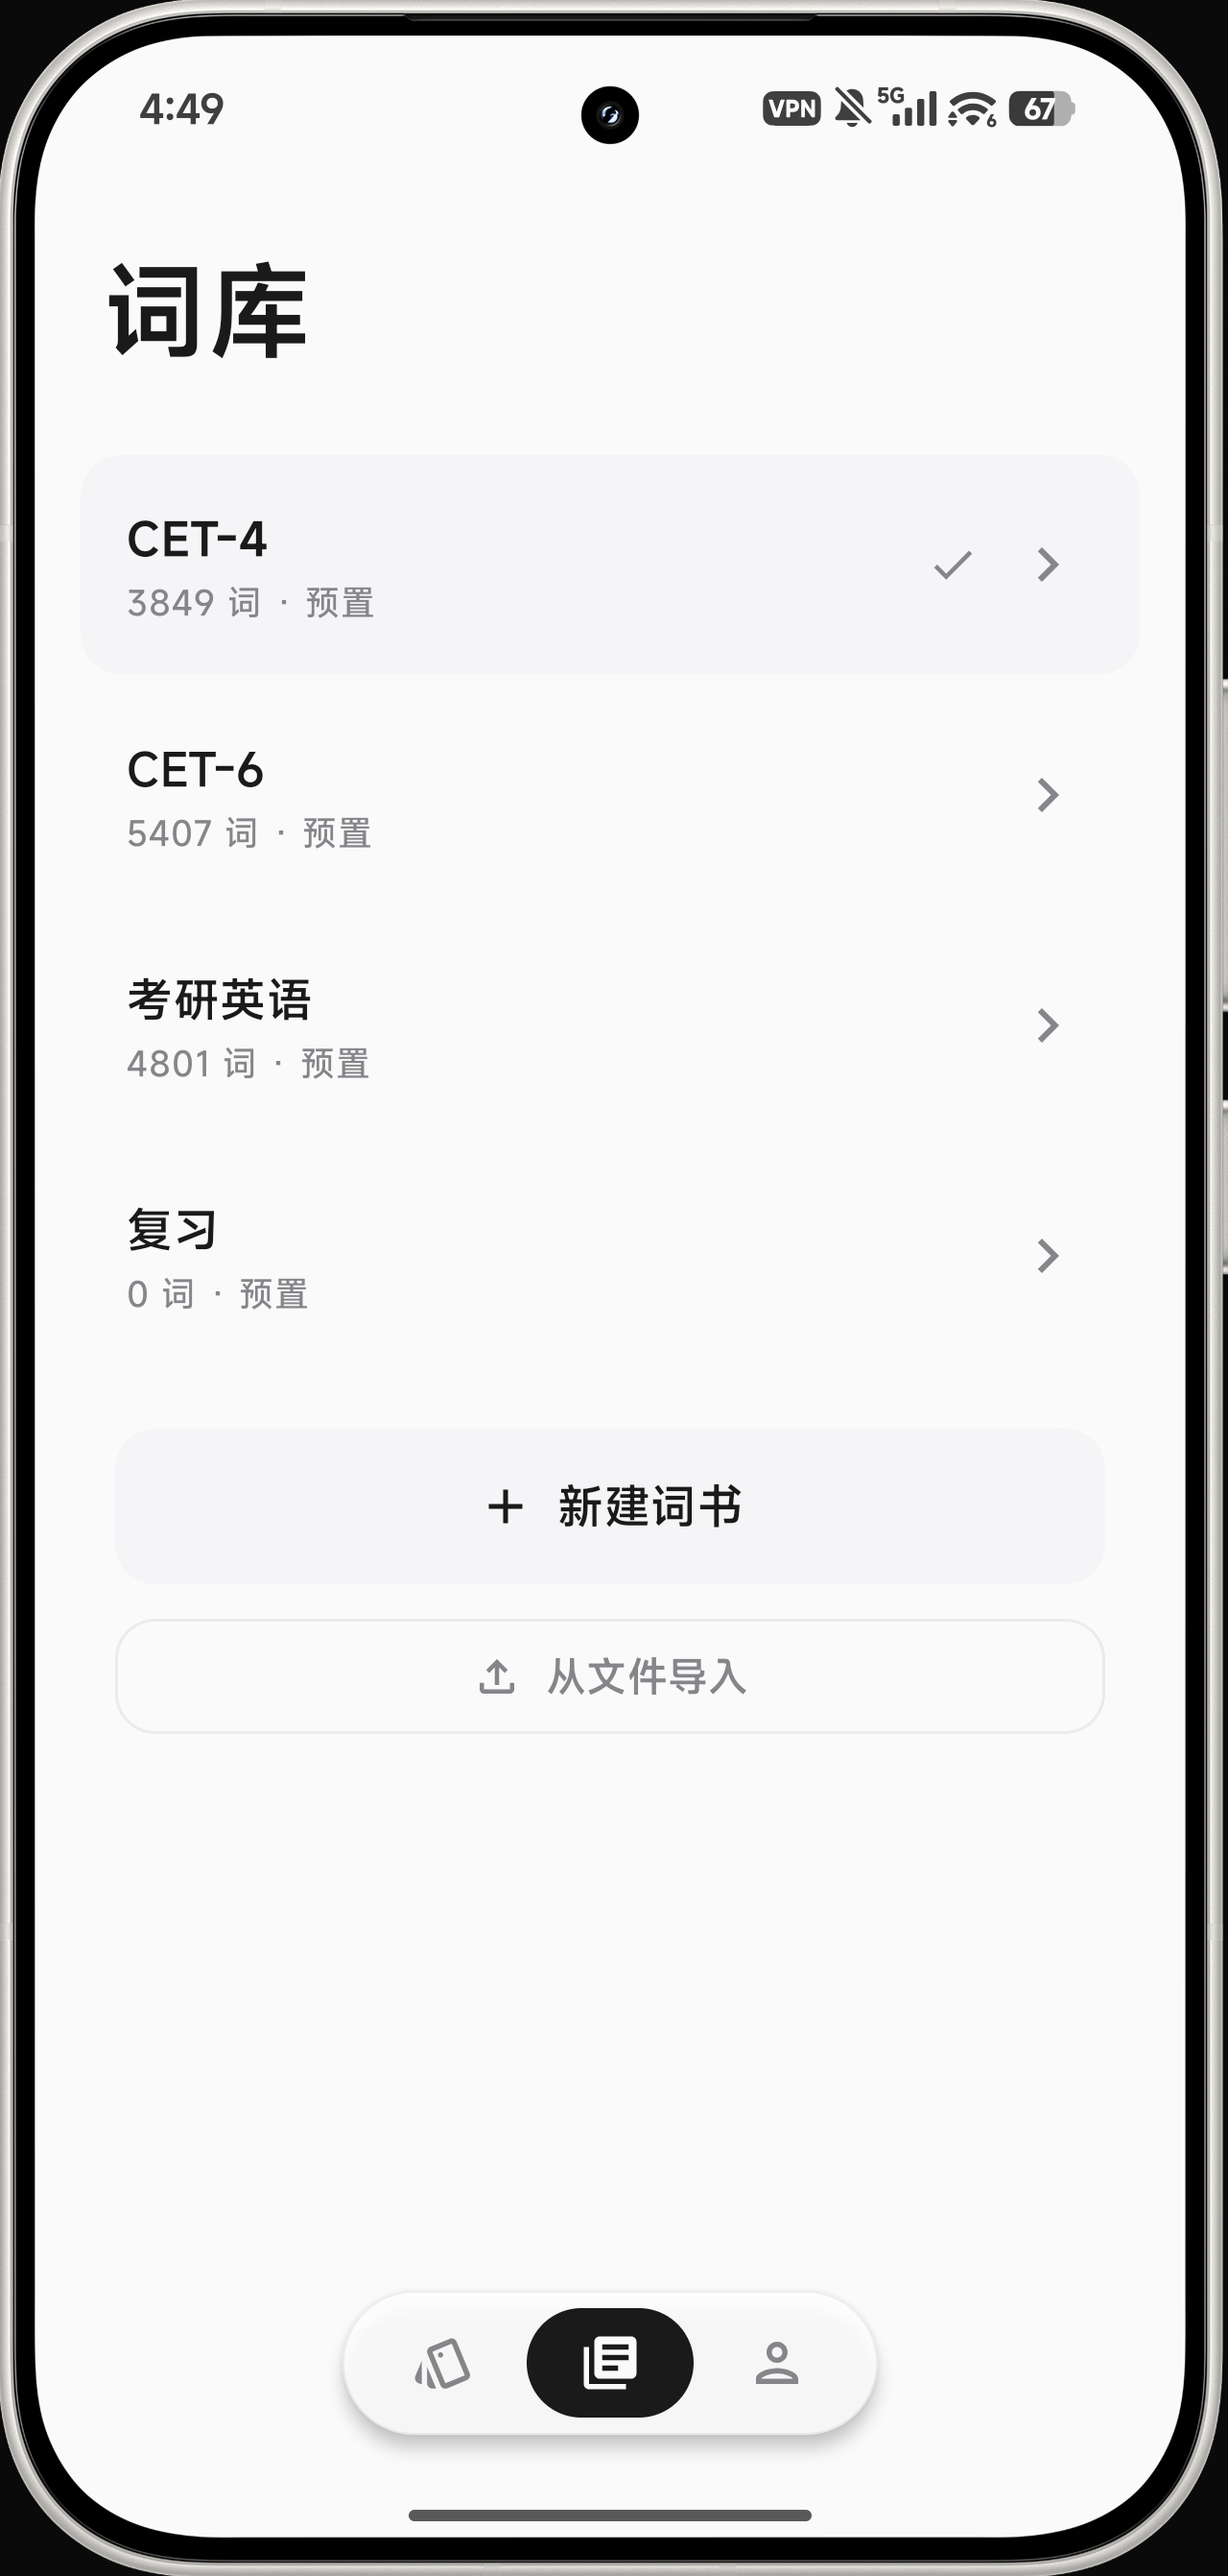
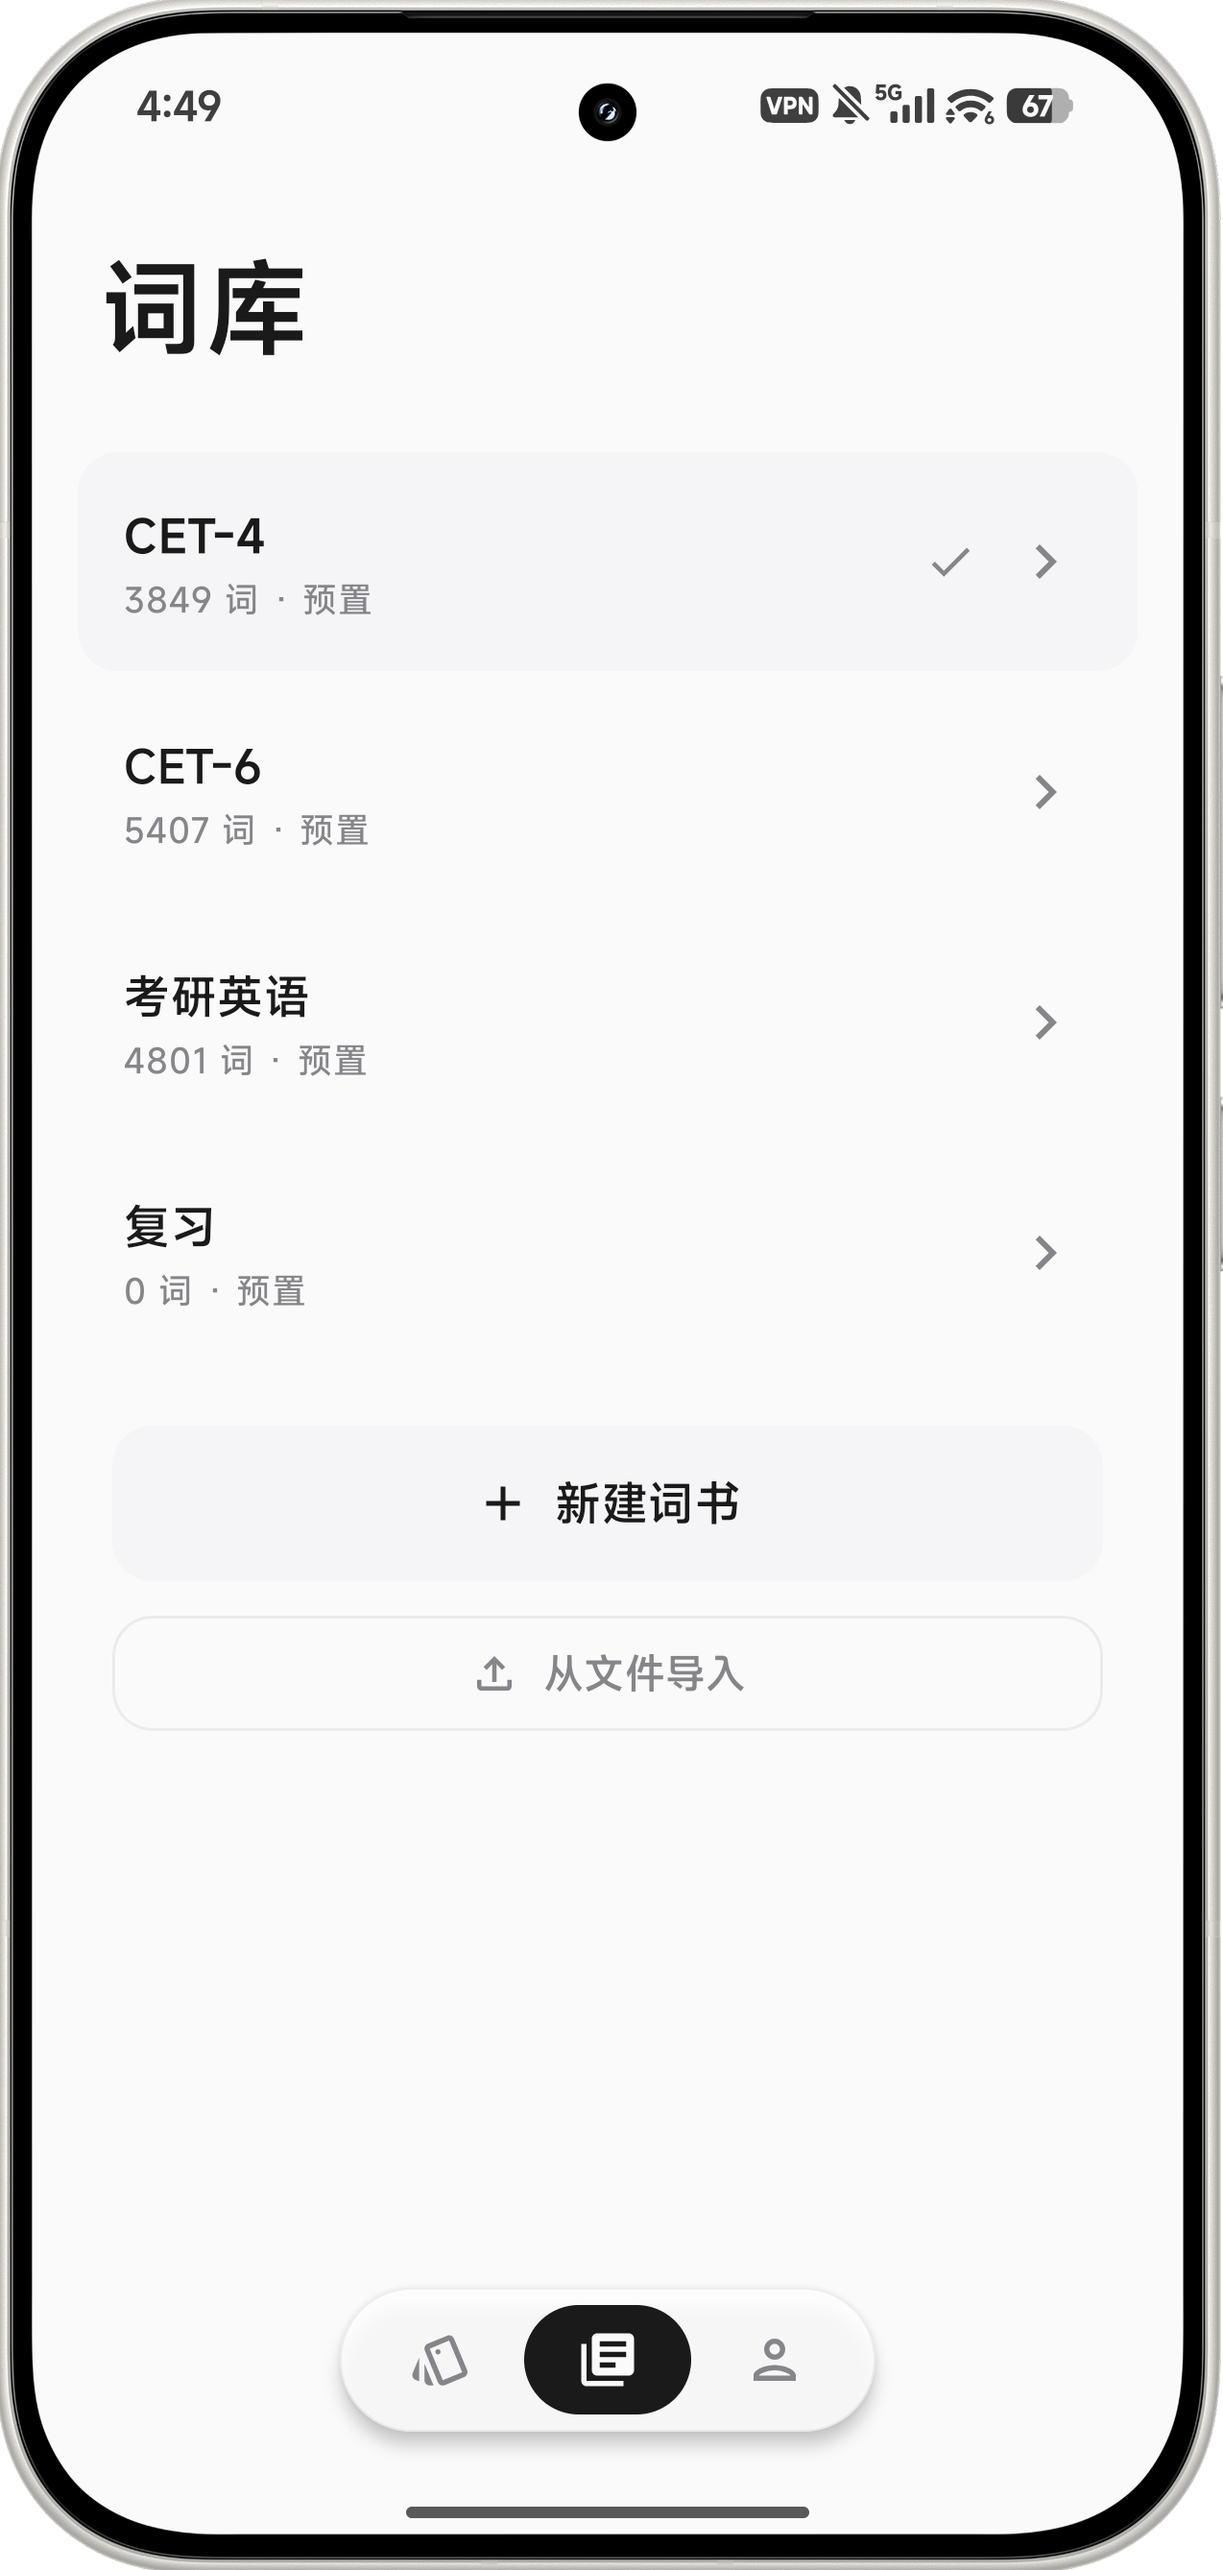
feat: 官网 V1 定稿 — 透明截图 + drop-shadow + 主题规范
- 截图改为透明背景（圆角手机轮廓，drop-shadow 跟随实际形状）
- 单套截图，深浅主题共用
- logo 随主题切换（JS 控制，不用 picture 标签）
- color-scheme meta + 属性（Dark Reader 兼容）
- 分段胶囊主题选择器（auto/light/dark）
- 默认 auto theme
- 动态版本号 + 下载链接（GitHub API）
- 清理 v1/v2/v3 变体文件

diff --git a/docs/index.html b/docs/index.html
@@ -1,8 +1,9 @@
 <!DOCTYPE html>
-<html lang="zh-CN">
+<html lang="zh-CN" style="color-scheme: light dark">
 <head>
 <meta charset="UTF-8">
 <meta name="viewport" content="width=device-width, initial-scale=1">
+<meta name="color-scheme" content="light dark">
 <title>WordDrill — 极简英语学习闪卡</title>
 <meta name="description" content="靠不断滑动浏览做被动重复记忆的闪卡 App。纯离线、无账号、无后端。预置 CET-4/CET-6/考研英语，内置 10 万词词典。">
 <style>
@@ -37,32 +38,35 @@ html[data-theme="dark"] {
 body {
   font-family: -apple-system, "SF Pro Text", "Noto Sans SC", "PingFang SC", system-ui, sans-serif;
   background: var(--bg); color: var(--text-primary);
-  -webkit-font-smoothing: antialiased;
-  line-height: 1.6;
+  -webkit-font-smoothing: antialiased; line-height: 1.6;
   transition: background 0.3s var(--spring), color 0.3s var(--spring);
   overflow-x: hidden;
 }
 
-/* ═══ Theme toggle ═══ */
+/* ═══ Segmented theme toggle ═══ */
 .theme-toggle {
   position: fixed; top: 20px; right: 20px; z-index: 100;
-  width: 40px; height: 40px; border-radius: 50%;
-  background: var(--surface); border: 0.5px solid var(--separator);
-  display: flex; align-items: center; justify-content: center;
-  cursor: pointer; transition: all 0.2s var(--spring);
-  box-shadow: 0 2px 12px rgba(0,0,0,0.08);
-  color: var(--text-primary);
+  display: flex; gap: 0;
+  background: rgba(118,118,128,0.12);
+  border-radius: 8px; padding: 2px;
+  transition: background 0.3s var(--spring);
 }
-.theme-toggle:active { transform: scale(0.9); }
-.theme-toggle svg { width: 18px; height: 18px; }
-.theme-toggle .icon-auto, .theme-toggle .icon-light, .theme-toggle .icon-dark { display: none; }
-html[data-theme="auto"] .theme-toggle .icon-auto,
-html[data-theme="light"] .theme-toggle .icon-light,
-html[data-theme="dark"] .theme-toggle .icon-dark { display: block; }
+.tt-item {
+  width: 28px; height: 24px;
+  display: flex; align-items: center; justify-content: center;
+  border-radius: 6px; cursor: pointer;
+  color: var(--text-secondary);
+  transition: all 0.2s var(--spring);
+}
+.tt-item.active {
+  background: var(--surface); color: var(--text-primary);
+  box-shadow: 0 1px 3px rgba(0,0,0,0.1);
+}
+.tt-item svg { width: 14px; height: 14px; }
 
 /* ═══ Hero ═══ */
 .hero { text-align: center; padding: 120px 24px 80px; }
-.hero-logo { width: 100px; height: 100px; margin-bottom: 28px; }
+.hero-logo { width: 100px; height: 100px; margin-bottom: 28px; transition: opacity 0.2s; }
 .hero h1 { font-size: clamp(40px, 7vw, 64px); font-weight: 700; letter-spacing: -1.5px; margin-bottom: 16px; }
 .hero .tagline { font-size: clamp(18px, 3vw, 24px); color: var(--text-secondary); margin-bottom: 8px; font-weight: 400; }
 .hero .tagline-en { font-size: 14px; color: var(--text-tertiary); margin-bottom: 40px; }
@@ -77,42 +81,27 @@ html[data-theme="dark"] .theme-toggle .icon-dark { display: block; }
 .download-btn:active { transform: scale(0.98); }
 .download-meta { font-size: 13px; color: var(--text-tertiary); margin-top: 14px; }
 
-/* ═══ Hero screenshots — three phones ═══ */
-.hero-phones {
-  display: flex; justify-content: center; gap: 12px;
-  padding: 60px 24px 40px;
-}
-.hero-phones img {
-  width: 200px; border-radius: 12px;
-  box-shadow: 0 8px 40px rgba(0,0,0,0.1);
-}
+/* ═══ Hero phones ═══ */
+.hero-phones { display: flex; justify-content: center; gap: 12px; padding: 60px 24px 40px; }
+.hero-phones img { width: 200px; filter: drop-shadow(0 8px 40px rgba(0,0,0,0.15)); transition: opacity 0.2s; }
 .hero-phones img:nth-child(2) { transform: translateY(-20px); }
 
-/* ═══ Feature sections — alternating ═══ */
-.feature {
-  display: flex; align-items: center; justify-content: center;
-  gap: 60px; padding: 100px 24px;
-  max-width: 1000px; margin: 0 auto;
-}
-.feature-text { flex: 1; max-width: 400px; }
-.feature-text h2 {
-  font-size: clamp(28px, 4vw, 40px); font-weight: 700;
-  letter-spacing: -0.8px; margin-bottom: 16px; line-height: 1.2;
-}
-.feature-text p { font-size: 18px; color: var(--text-secondary); line-height: 1.6; }
-.feature-visual { flex: 1; max-width: 300px; text-align: center; }
-.feature-visual img { width: 100%; max-width: 260px; border-radius: 12px; box-shadow: 0 12px 48px rgba(0,0,0,0.12); }
-
-/* Alternating layout */
-.feature.reverse { flex-direction: row-reverse; }
-
-/* Stats band */
-.stats {
-  display: flex; justify-content: center; gap: 60px;
-  padding: 80px 24px; text-align: center;
-}
+/* ═══ Stats ═══ */
+.stats { display: flex; justify-content: center; gap: 60px; padding: 80px 24px; text-align: center; }
 .stat-num { font-size: 48px; font-weight: 700; letter-spacing: -1px; }
 .stat-label { font-size: 14px; color: var(--text-secondary); margin-top: 4px; }
+
+/* ═══ Feature sections ═══ */
+.feature {
+  display: flex; align-items: center; justify-content: center;
+  gap: 60px; padding: 100px 24px; max-width: 1000px; margin: 0 auto;
+}
+.feature-text { flex: 1; max-width: 400px; }
+.feature-text h2 { font-size: clamp(28px, 4vw, 40px); font-weight: 700; letter-spacing: -0.8px; margin-bottom: 16px; line-height: 1.2; }
+.feature-text p { font-size: 18px; color: var(--text-secondary); line-height: 1.6; }
+.feature-visual { flex: 1; max-width: 300px; text-align: center; }
+.feature-visual img { width: 100%; max-width: 260px; filter: drop-shadow(0 12px 48px rgba(0,0,0,0.15)); transition: opacity 0.2s; }
+.feature.reverse { flex-direction: row-reverse; }
 
 @media (max-width: 700px) {
   .feature { flex-direction: column !important; gap: 32px; padding: 60px 24px; text-align: center; }
@@ -135,20 +124,14 @@ html[data-theme="dark"] .theme-toggle .icon-dark { display: block; }
 </head>
 <body>
 
-<!-- Theme toggle -->
-<div class="theme-toggle" onclick="cycleTheme()" title="切换主题">
-  <svg class="icon-auto" viewBox="0 0 24 24" fill="none" stroke="currentColor" stroke-width="2" stroke-linecap="round" stroke-linejoin="round"><circle cx="12" cy="12" r="4"/><path d="M12 2v2M12 20v2M4.93 4.93l1.41 1.41M17.66 17.66l1.41 1.41M2 12h2M20 12h2M6.34 17.66l-1.41 1.41M19.07 4.93l-1.41 1.41"/></svg>
-  <svg class="icon-light" viewBox="0 0 24 24" fill="none" stroke="currentColor" stroke-width="2" stroke-linecap="round" stroke-linejoin="round"><circle cx="12" cy="12" r="5"/><line x1="12" y1="1" x2="12" y2="3"/><line x1="12" y1="21" x2="12" y2="23"/><line x1="4.22" y1="4.22" x2="5.64" y2="5.64"/><line x1="18.36" y1="18.36" x2="19.78" y2="19.78"/><line x1="1" y1="12" x2="3" y2="12"/><line x1="21" y1="12" x2="23" y2="12"/><line x1="4.22" y1="19.78" x2="5.64" y2="18.36"/><line x1="18.36" y1="5.64" x2="19.78" y2="4.22"/></svg>
-  <svg class="icon-dark" viewBox="0 0 24 24" fill="none" stroke="currentColor" stroke-width="2" stroke-linecap="round" stroke-linejoin="round"><path d="M21 12.8A9 9 0 1 1 11.2 3a7 7 0 0 0 9.8 9.8z"/></svg>
+<div class="theme-toggle" id="themeToggle">
+  <div class="tt-item" data-theme-val="auto" title="跟随系统"><svg viewBox="0 0 24 24" fill="none" stroke="currentColor" stroke-width="2"><circle cx="12" cy="12" r="9"/><path d="M12 3a9 9 0 0 0 0 18a4.5 9 0 0 1 0-18" fill="currentColor" stroke="none"/></svg></div>
+  <div class="tt-item" data-theme-val="light" title="浅色"><svg viewBox="0 0 24 24" fill="none" stroke="currentColor" stroke-width="2"><circle cx="12" cy="12" r="5"/><line x1="12" y1="1" x2="12" y2="3"/><line x1="12" y1="21" x2="12" y2="23"/><line x1="4.22" y1="4.22" x2="5.64" y2="5.64"/><line x1="18.36" y1="18.36" x2="19.78" y2="19.78"/><line x1="1" y1="12" x2="3" y2="12"/><line x1="21" y1="12" x2="23" y2="12"/><line x1="4.22" y1="19.78" x2="5.64" y2="18.36"/><line x1="18.36" y1="5.64" x2="19.78" y2="4.22"/></svg></div>
+  <div class="tt-item" data-theme-val="dark" title="深色"><svg viewBox="0 0 24 24" fill="none" stroke="currentColor" stroke-width="2"><path d="M21 12.8A9 9 0 1 1 11.2 3a7 7 0 0 0 9.8 9.8z"/></svg></div>
 </div>
 
-<!-- ═══ Hero ═══ -->
 <div class="hero">
-  <picture>
-    <source media="(prefers-color-scheme: dark)" srcset="website/logo-dark.svg">
-    <source media="(prefers-color-scheme: light)" srcset="website/logo-light.svg">
-    <img class="hero-logo" src="website/logo-light.svg" alt="WordDrill">
-  </picture>
+  <img class="hero-logo" id="heroLogo" src="website/logo-light.svg" alt="WordDrill">
   <h1>WordDrill</h1>
   <div class="tagline">纯粹刷词，加深记忆</div>
   <div class="tagline-en">Swipe. Read. Remember. No exams, no scores, no algorithms.</div>
@@ -159,54 +142,42 @@ html[data-theme="dark"] .theme-toggle .icon-dark { display: block; }
   <div class="download-meta" id="download-meta">v0.2.0 · Android 8.0+ · ~34 MB</div>
 </div>
 
-<!-- ═══ Hero phones ═══ -->
 <div class="hero-phones reveal">
   <img src="website/screenshot-1.png" alt="刷卡页" />
   <img src="website/screenshot-2.png" alt="词库页" />
   <img src="website/screenshot-3.png" alt="我的页" />
 </div>
 
-<!-- ═══ Stats band ═══ -->
 <div class="stats reveal">
   <div><div class="stat-num">10万+</div><div class="stat-label">内置词典词条</div></div>
   <div><div class="stat-num">3</div><div class="stat-label">预置词书</div></div>
   <div><div class="stat-num">0</div><div class="stat-label">网络请求</div></div>
 </div>
 
-<!-- ═══ Feature 1: 全屏刷卡 ═══ -->
 <div class="feature reveal">
   <div class="feature-text">
     <h2>全屏刷卡<br/>纯粹阅读</h2>
     <p>单词、词性、音标、释义同屏展示。左右滑动切换，不考试不评分不判断对错。靠被动重复加深记忆，仅此而已。</p>
   </div>
-  <div class="feature-visual">
-    <img src="website/screenshot-1.png" alt="刷卡页" />
-  </div>
+  <div class="feature-visual"><img src="website/screenshot-1.png" alt="刷卡页" /></div>
 </div>
 
-<!-- ═══ Feature 2: 词典 + 导入 ═══ -->
 <div class="feature reverse reveal">
   <div class="feature-text">
     <h2>内置十万词典<br/>文件批量导入</h2>
     <p>ECDICT 英汉词典，添加词条自动查词性、释义、音标。支持 Excel、文本、PDF 批量导入词书，自动匹配词典数据。</p>
   </div>
-  <div class="feature-visual">
-    <img src="website/screenshot-2.png" alt="词库页" />
-  </div>
+  <div class="feature-visual"><img src="website/screenshot-2.png" alt="词库页" /></div>
 </div>
 
-<!-- ═══ Feature 3: 数据 + 隐私 ═══ -->
 <div class="feature reveal">
   <div class="feature-text">
     <h2>完全离线<br/>数据尽在掌握</h2>
     <p>所有数据本地存储，无后端无账号无网络请求。导出/导入 JSON 文件迁移数据，换机不丢进度。回收站防误删，跳过词自动收入复习词书。</p>
   </div>
-  <div class="feature-visual">
-    <img src="website/screenshot-3.png" alt="我的页" />
-  </div>
+  <div class="feature-visual"><img src="website/screenshot-3.png" alt="我的页" /></div>
 </div>
 
-<!-- ═══ Footer ═══ -->
 <div class="footer">
   <a href="https://github.com/ChHsiching/word-drill">GitHub</a> ·
   <a href="https://github.com/ChHsiching/word-drill/releases">Releases</a> ·
@@ -215,19 +186,32 @@ html[data-theme="dark"] .theme-toggle .icon-dark { display: block; }
 </div>
 
 <script>
-const THEMES = ['auto', 'light', 'dark'];
 function getTheme() { return localStorage.getItem('theme') || 'auto'; }
 function applyTheme(t) {
+  // Set data-theme attribute for CSS variable switching
   if (t === 'auto') document.documentElement.removeAttribute('data-theme');
   else document.documentElement.setAttribute('data-theme', t);
+
+  // Set color-scheme for browser native elements + Dark Reader detection
   const isDark = t === 'dark' || (t === 'auto' && matchMedia('(prefers-color-scheme: dark)').matches);
-  document.querySelector('.hero-logo').src = isDark ? 'website/logo-dark.svg' : 'website/logo-light.svg';
+  document.documentElement.style.colorScheme = isDark ? 'dark' : 'light';
+
+  // Swap logo
+  const logo = document.getElementById('heroLogo');
+  logo.style.opacity = '0';
+  setTimeout(() => { logo.src = isDark ? 'website/logo-dark.svg' : 'website/logo-light.svg'; logo.style.opacity = '1'; }, 100);
+
+  // Update toggle active state
+  document.querySelectorAll('.tt-item').forEach(el => el.classList.toggle('active', el.dataset.themeVal === t));
 }
-function cycleTheme() {
-  const next = THEMES[(THEMES.indexOf(getTheme()) + 1) % THEMES.length];
-  localStorage.setItem('theme', next);
-  applyTheme(next);
-}
+
+document.querySelectorAll('.tt-item').forEach(el => {
+  el.addEventListener('click', () => { localStorage.setItem('theme', el.dataset.themeVal); applyTheme(el.dataset.themeVal); });
+});
+
+// Listen to system theme changes when in auto mode
+matchMedia('(prefers-color-scheme: dark)').addEventListener('change', () => { if (getTheme() === 'auto') applyTheme('auto'); });
+
 applyTheme(getTheme());
 
 fetch('https://api.github.com/repos/ChHsiching/word-drill/releases/latest')
@@ -237,16 +221,12 @@ fetch('https://api.github.com/repos/ChHsiching/word-drill/releases/latest')
     const sizeMB = apk ? (apk.size / 1048576).toFixed(0) : '~34';
     document.getElementById('download-btn').href = apk ? apk.browser_download_url : release.html_url;
     document.getElementById('download-meta').textContent = `${release.tag_name} · Android 8.0+ · ~${sizeMB} MB`;
-  })
-  .catch(() => {});
+  }).catch(() => {});
 
 const observer = new IntersectionObserver((entries) => {
-  entries.forEach((e) => {
-    if (e.isIntersecting) { e.target.classList.add('visible'); observer.unobserve(e.target); }
-  });
+  entries.forEach(e => { if (e.isIntersecting) { e.target.classList.add('visible'); observer.unobserve(e.target); } });
 }, { threshold: 0.15 });
 document.querySelectorAll('.reveal').forEach(el => observer.observe(el));
 </script>
-
 </body>
 </html>
